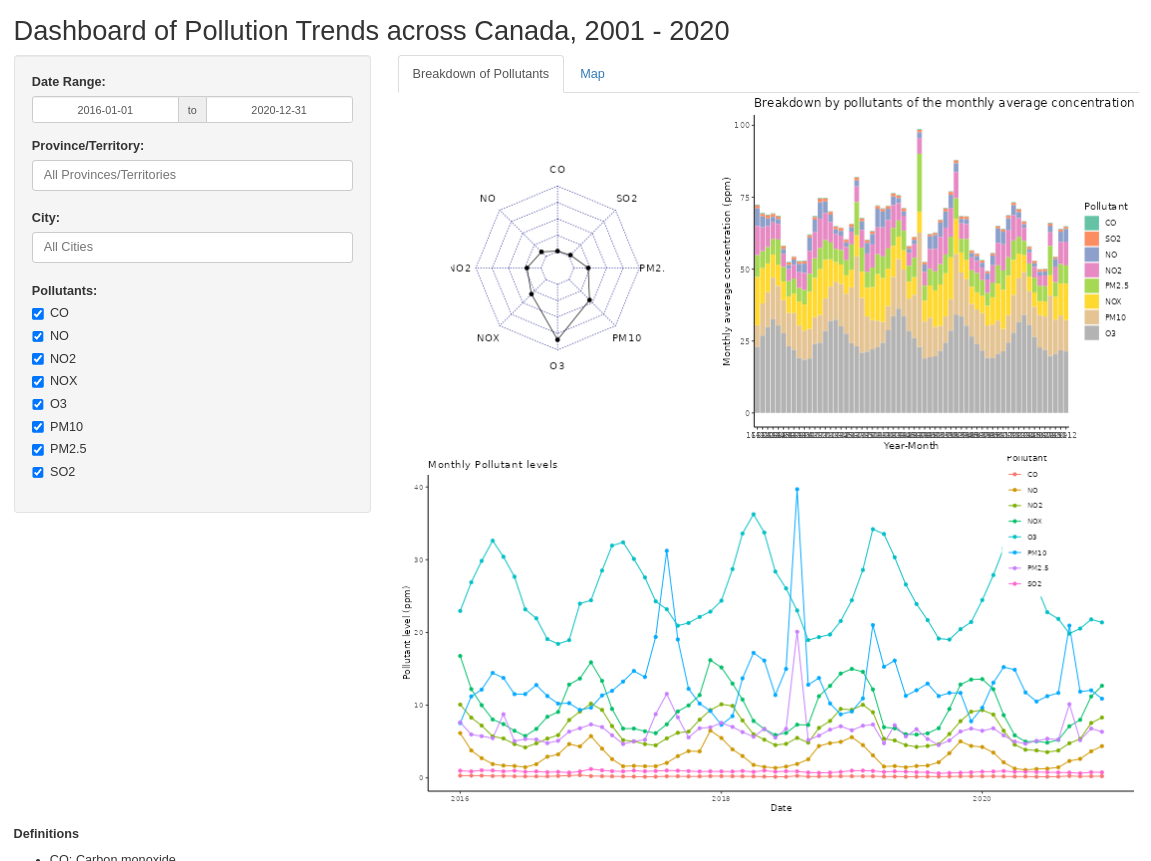
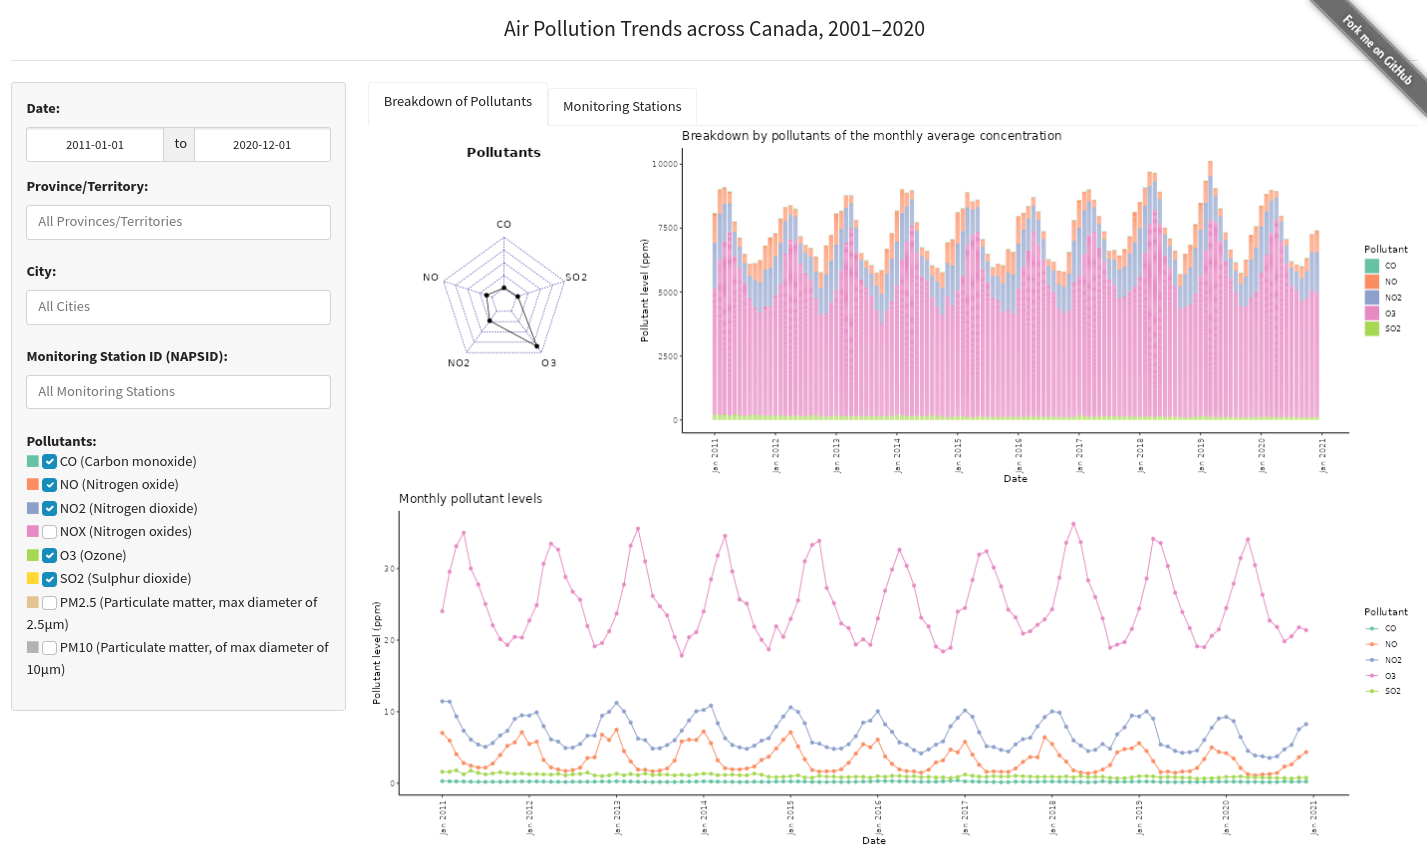
chore: update README and dashboard screenshot

diff --git a/README.md b/README.md
@@ -14,22 +14,19 @@ The objective of this dashboard it to enable users to make inferences on the the
 
 The landing page presents the user with options on the left side to select a Province in Canada or/and a specific City in Canada via drop-down menus. The pollutants of interest can be selected via checkboxes. By default, these options are set as entire Canada and all pollutants. This corresponds to the following selections, Select Province: "All" , Select City: Inactive, Select Pollutant: "All".
 
-These selected options dynamically update the Line chart in the display zone 1 on the far right. This plot shows a comparison of average concentration (parts per million) of the prominent pollutants in Canada against the World. The default range of year for this chart is from 2001 to 2020. The user can alter this range by using a slider widget placed beneath this display zone. Furthermore, the user can switch between a Line Chart or Stacked Bar Chart option by clicking the respective buttons at the top of this display zone. Clicking either button fills the display zone 1 with the respective chart. At any moment only one type of chart is displayed in this zone allowing the user to fully immerse in the details.
+These selected options dynamically update the Line chart in the display zone 1 on the far right. This plot shows a comparison of average concentration (parts per million) of the prominent pollutants in Canada against the World. The default range of year for this chart is from 2001 to 2020. The user can alter this range by using a slider widget placed beneath this display zone. Furthermore, the user can switch between a Line Chart or Stacked Bar Chart option by clicking the respective buttons at the top of this display zone. Clicking either button fills the display zone 1 with the respective chart. At any moment only one type of chart is displayed in this zone allowing the user to fully immerse in the details.z
 
 The dashboard flaunts another display zone 2 at the center wherein the geospatial information is shown. This information dynamically updates based on the selected options in cohesion with the line or bar chart. This zone is divided into two halves. The upper half displays the density of selected air pollutants in the selected province or city in Canada. The bottom half displays the country-wise average density of the selected pollutants.
 
-The dashboard provides definitions of the pollutants, model assumptions and a summary to provide an overall insight. The attributions and credits are enlisted for user convenience.  
-
+The dashboard provides definitions of the pollutants, model assumptions and a summary to provide an overall insight. The attributions and credits are enlisted for user convenience.
 
 ## Usage
 
-The latest version of the dashboard is deployed on [`shinyapps.io`] at <https://extra.shinyapps.io/air-pollution>. 
+The latest version of the dashboard is [deployed on `shinyapps.io`](https://extra.shinyapps.io/air-pollution).
 
-On it, you could play around with 20 years of Canada NADS Program data (2001-2020), slice it, and see if you could find some insights out of it.
+On it, you could experiment with 20 years of [National Air Pollution Surveillance (NAPS)](https://www.canada.ca/en/environment-climate-change/services/air-pollution/monitoring-networks-data/national-air-pollution-program.html) data (2001-2020) (aggregated to the month). Feel free to slice it and see if you could find some insights out of it.
 
-> Warning: The cold boot of the application can be slow at times. We are working on it!
-
-## Development
+## Running Locally
 
 The project is implemented in R using [Shiny](https://shiny.rstudio.com/).
 
@@ -40,8 +37,15 @@ Rscript install-deps.R
 ```
 
 It can be run by:
+
 ```bash
 Rscript app.R
+```
+
+You can then access the application at the displayed URL. By default it binds to a random local port, but it can be overridden by specifying `PORT` parameter by using:
+
+```bash
+PORT=9999 Rscript app.R
 ```
 
 Interesting in helping out? Read the [`CONTRIBUTING.md`](CONTRIBUTING.md) for more information!
